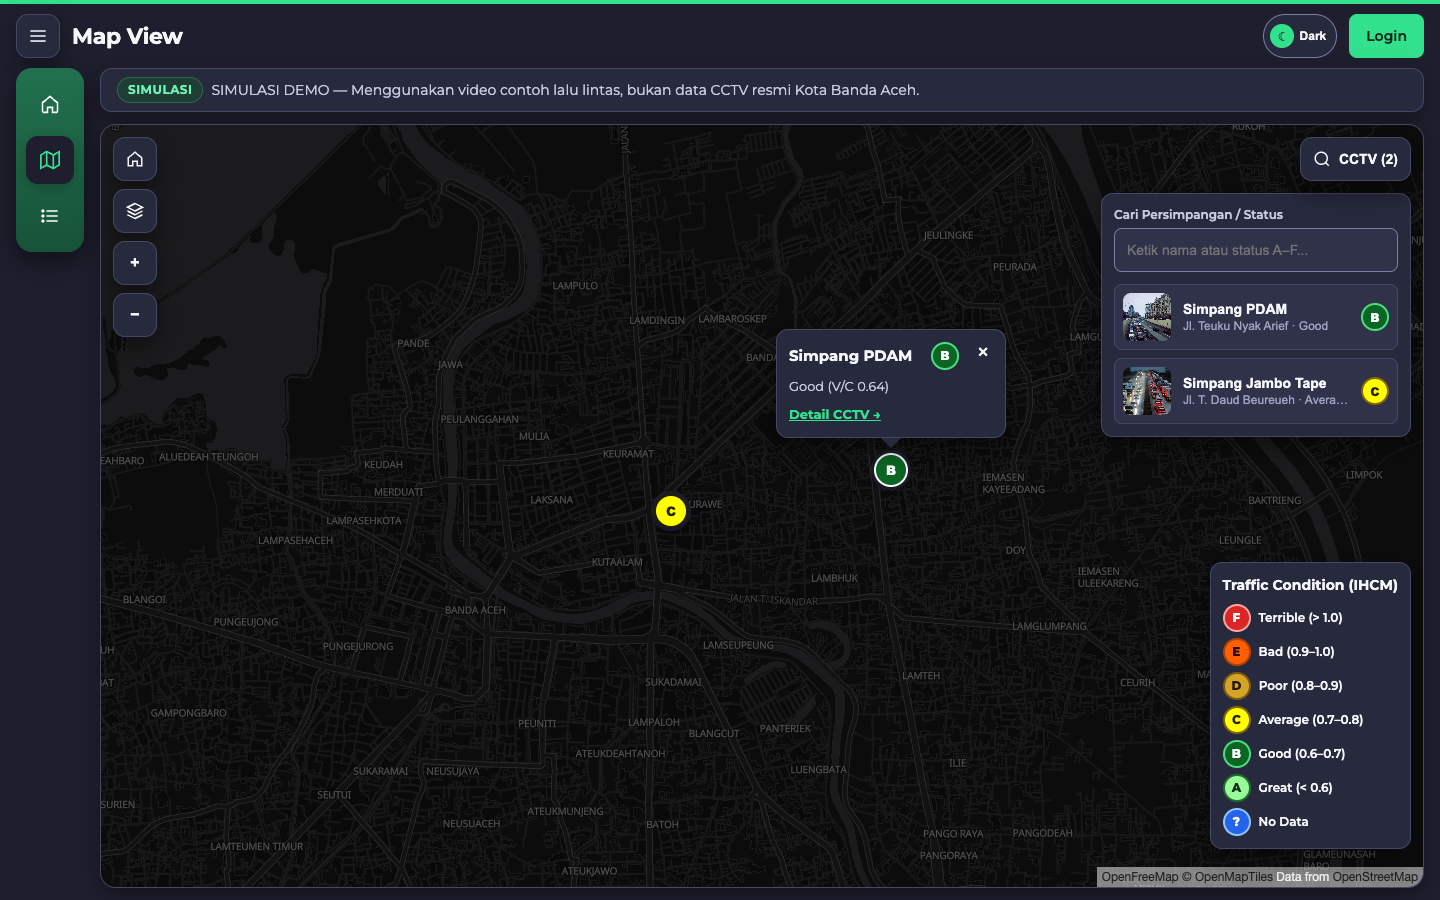
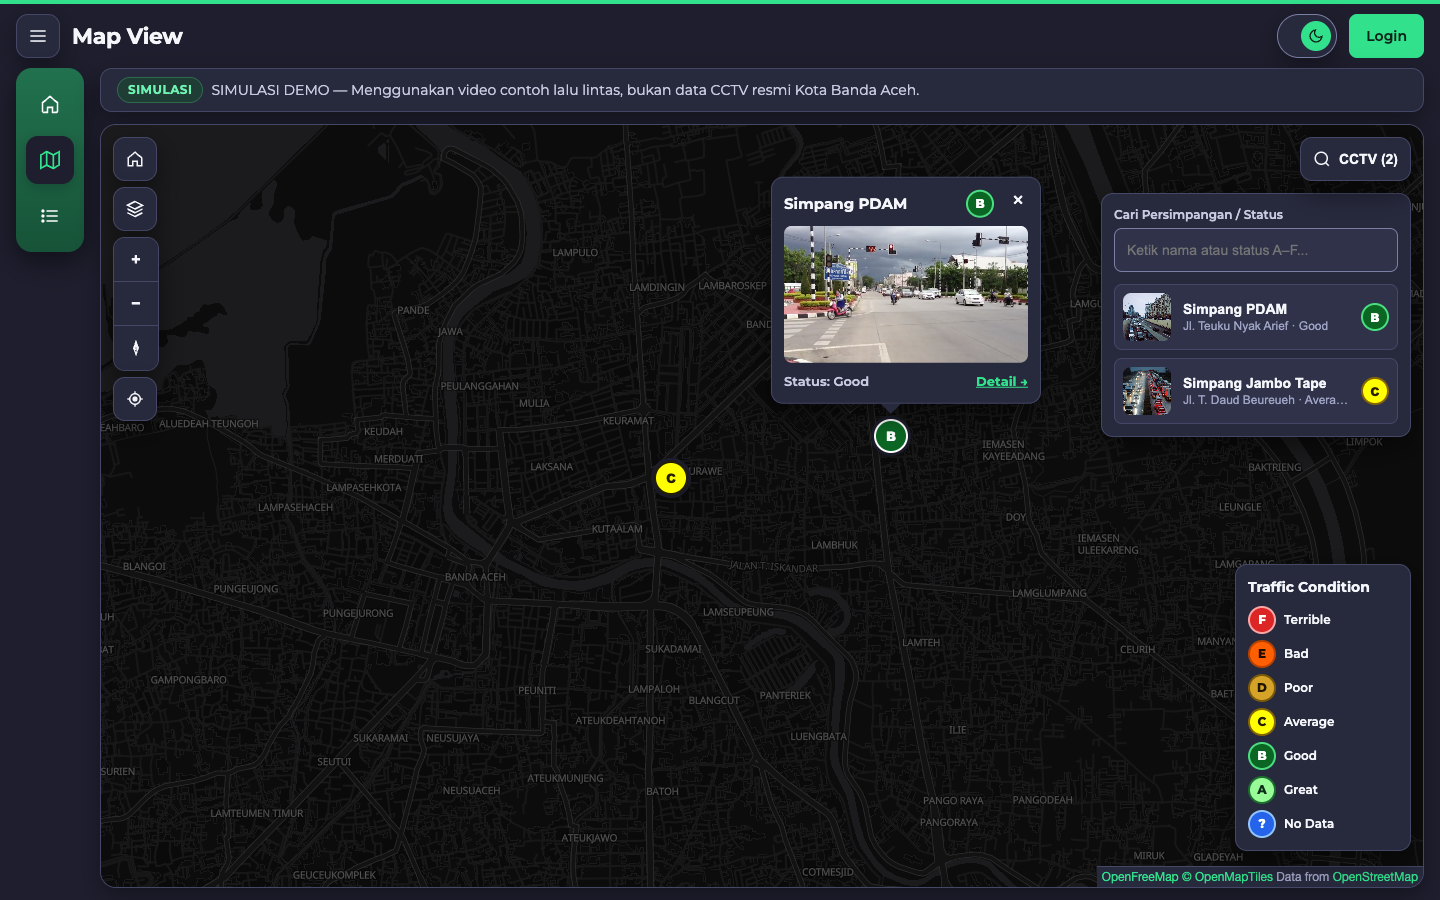
docs(design): incorporate user feedback on Map View proposal

diff --git a/docs/DESIGN_PROPOSAL.md b/docs/DESIGN_PROPOSAL.md
@@ -102,14 +102,18 @@ Makna 6 warna asli v1 **tetap dipertahankan**. Untuk mengatasi masalah buta warn
   - Mobile (`< 768px`): daftar disajikan sebagai **kartu CCTV responsif** (atau wrapper scroll horizontal aman + tombol `+ Add New` berada di bar aksi atas yang selalu terlihat penuh) sehingga nama, alamat, koordinat, agency, status, serta tombol View/Edit/Delete bisa disentuh `44x44px`.
 - **Navbar & Sidebar:**
   - Menggunakan `<header>` dan `<nav aria-label="Navigasi Utama">` berisi `<ul><li><a ...>` murni (menghapus pembungkus `<a>` di luar `<el-menu-item role="menuitem">` agar nol error `aria-required-parent/children`), dan `aria-current="page"` pada halaman aktif.
-  - Switch tema memakai `<button role="switch" aria-checked="true|false" aria-label="...">` berukuran sentuh `>= 44px` tinggi (menggantikan `<el-switch>` yang memicu error `nested-interactive`).
+  - Switch tema memakai `<button role="switch" aria-checked="true|false" aria-label="...">` **hanya dengan ikon Matahari/Bulan** (tanpa teks label "Light/Dark") dan ukuran sentuh `>= 44px` (menggantikan `<el-switch>` yang memicu error `nested-interactive`).
   - Mobile `< 768px`: sidebar pill kiri diganti tombol menu `44x44px` di header yang membuka laci navigasi (*slide-over drawer*) lengkap dengan teks menu.
+- **Kontrol Peta, Popup & Legenda (`/map`):**
+  - Kontrol kiri atas mempertahankan lengkap fungsi v1: **Reset Home**, **Layers & Map Style**, **Navigation (`+`, `−`, Reset Compass)**, dan **Find My Location (`GeolocateControl`)** dengan ukuran sentuh `>= 44x44px`.
+  - **Popup Peta** menampilkan judul persimpangan, chip kondisi, **stream `<video>` / gambar CCTV seperti v1**, status (`Good`, `Average`, dst.), dan tautan `Detail →` **tanpa** menampakkan angka internal rasio `V/C`.
+  - **Legenda Peta** memakai teks v1 yang ringkas (`Terrible`, `Bad`, `Poor`, `Average`, `Good`, `Great`, `No Data`) tanpa angka rentang `V/C`, dipasangkan dengan chip huruf `A–F` / `?` untuk aksesibilitas non-warna.
 
 ---
 
 ## 3. Penerapan pada Halaman Contoh: Map View (`/map`)
 
-Halaman `/map` di-prototipekan dengan token dan komponen di atas menggunakan MapLibre GL + basemap gratis OpenFreeMap (`liberty` untuk Light, `dark` untuk Dark), `ResizeObserver` untuk membasmi bug kanvas setengah lebar, marker huruf+warna A–F, serta `axe-core` audit langsung pada purwarupa.
+Halaman `/map` di-prototipekan dengan token dan komponen di atas menggunakan MapLibre GL + basemap gratis OpenFreeMap (`liberty` untuk Light, `dark` untuk Dark), `ResizeObserver` untuk membasmi bug kanvas setengah lebar, marker huruf+warna A–F, tombol *Find My Location*, video pada popup, serta `axe-core` audit langsung pada purwarupa.
 
 ### 3.1 Ringkasan Peningkatan Terukur (Sebelum vs Sesudah pada `/map`)
 
@@ -118,28 +122,28 @@ Halaman `/map` di-prototipekan dengan token dan komponen di atas menggunakan Map
 | **Pelanggaran `axe-core`** | **`10`** (`Light` & `Dark`, `360` & `1440`) | **`0`** di semua 4 mode (`1440_L`, `1440_D`, `360_L`, `360_D`) |
 | **Target sentuh app `< 44x44px`** | **`14`** elemen (zoom, layer, clear, switch, search) | **`0`** elemen kontrol app (`100% >= 44x44px`) |
 | **Kontras tombol & badge utama** | `3.6:1` (Light), **`1.71:1`** (Dark `#FFF` on `#32E18C`) | **`5.40:1`** (Light), **`9.60:1`** (Dark `#0B2418` on `#32E18C`) |
-| **Aksesibilitas status IHCM A–F** | Hanya bulatan warna (kontras Light `1.07:1`–`2.32:1`) | Chip huruf **`A`–`F` / `?`** + border ring kontras + teks `--text-primary` |
+| **Aksesibilitas status IHCM A–F** | Hanya bulatan warna (kontras Light `1.07:1`–`2.32:1`) | Chip huruf **`A`–`F` / `?`** + border ring kontras + label ringkas tanpa rentang `V/C` |
 | **Render kanvas peta initial** | Setengah lebar di `1024px` & `1440px` Light | Penuh `100%` lebar & tinggi (`ResizeObserver`) |
-| **Sinkronisasi Dark Mode peta** | Basemap tetap putih terang di UI gelap | Peta otomatis memakai gaya `OpenFreeMap dark` + popup gelap |
+| **Sinkronisasi Dark Mode peta** | Basemap tetap putih terang di UI gelap | Peta otomatis memakai gaya `OpenFreeMap dark` + popup & atribusi gelap |
 
 ### 3.2 Perbandingan Visual Sebelum vs Sesudah
 
 #### A. Desktop `1440px` — Light Mode
-*Perbaikan tampak: kanvas peta penuh 100% (tidak lagi terpotong setengah lebar), banner simulasi lebih ringkas dengan kontras tinggi, tombol kontrol `>= 44x44px`, marker berhuruf `B` & `C` dengan popup mudah dibaca, legenda berchip huruf A–F + `?`, serta heading `<h1>Map View</h1>` dan switch tema sinkron.*
+*Perbaikan tampak: kanvas peta penuh 100%, kontrol kiri lengkap (`Home`, `Layer`, `Zoom/Compass`, `Find My Location`) ukuran `>= 44x44px`, theme toggle ikon-only, popup menampilkan video CCTV langsung tanpa angka V/C internal, dan legenda ringkas berchip huruf A–F + `?`.*
 
 | Kondisi Sebelum (`map_1440.png`) | Usulan Desain (`map_proposal_1440_light.png`) |
 | --- | --- |
 | ![Sebelum 1440 Light](/Users/moel_04/work/ta_webgis/docs/screenshots/phase45_audit/map_1440.png) | ![Sesudah 1440 Light](/Users/moel_04/work/ta_webgis/docs/screenshots/phase45_proposal/map_proposal_1440_light.png) |
 
 #### B. Desktop `1440px` — Dark Mode
-*Perbaikan tampak: basemap peta ikut gelap (`OpenFreeMap dark`), tombol `Login` `#32E18C` memakai teks `#0B2418` (`9.60:1`), popup menyesuaikan permukaan `#27293D`, dan badge `SIMULASI` serta marker memiliki border terang agar terbaca tajam.*
+*Perbaikan tampak: basemap peta ikut gelap (`OpenFreeMap dark`), kontrol & switch ikon Bulan sinkron, tombol `Login` `#32E18C` memakai teks `#0B2418` (`9.60:1`), popup video & atribusi peta menyesuaikan tema gelap `#27293D`.*
 
 | Kondisi Sebelum (`map_1440_dark.png`) | Usulan Desain (`map_proposal_1440_dark.png`) |
 | --- | --- |
 | ![Sebelum 1440 Dark](/Users/moel_04/work/ta_webgis/docs/screenshots/phase45_audit/map_1440_dark.png) | ![Sesudah 1440 Dark](/Users/moel_04/work/ta_webgis/docs/screenshots/phase45_proposal/map_proposal_1440_dark.png) |
 
 #### C. Mobile `360px` — Light & Dark Mode
-*Perbaikan tampak: sidebar kiri tidak memakan ruang kanvas 360px (berpindah ke menu hamburger `44x44px`), tombol kontrol kiri & `CCTV (2)` kanan semua berukuran `>= 44x44px`, legenda tersusun 2 kolom rapi, dan nol clipping horizontal.*  
+*Perbaikan tampak: seluruh kontrol kiri termasuk `Find My Location` tetap tersedia berukuran `>= 44x44px`, popup video tampil di atas kontrol peta (`z-index: 20`), legenda 2 kolom ringkas, switch ikon saja, dan nol clipping horizontal.*  
 *(Catatan implementasi Langkah 3: pada layar `<= 767px`, legenda juga dapat dilengkapi tombol ciutkan/buka `Legenda A–F` agar peta semakin lega dan tidak bersinggungan dengan atribusi peta di bagian paling bawah).*
 
 | Sebelum Mobile 360px (`map_360.png`) | Usulan Mobile 360px Light (`map_proposal_360_light.png`) | Usulan Mobile 360px Dark (`map_proposal_360_dark.png`) |
